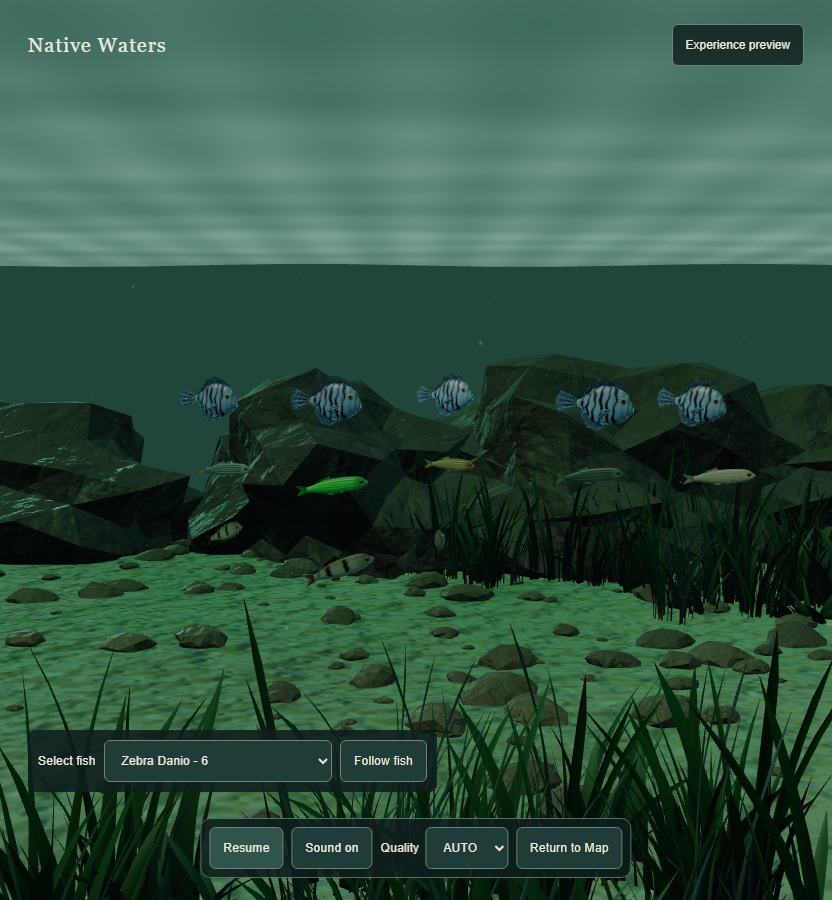
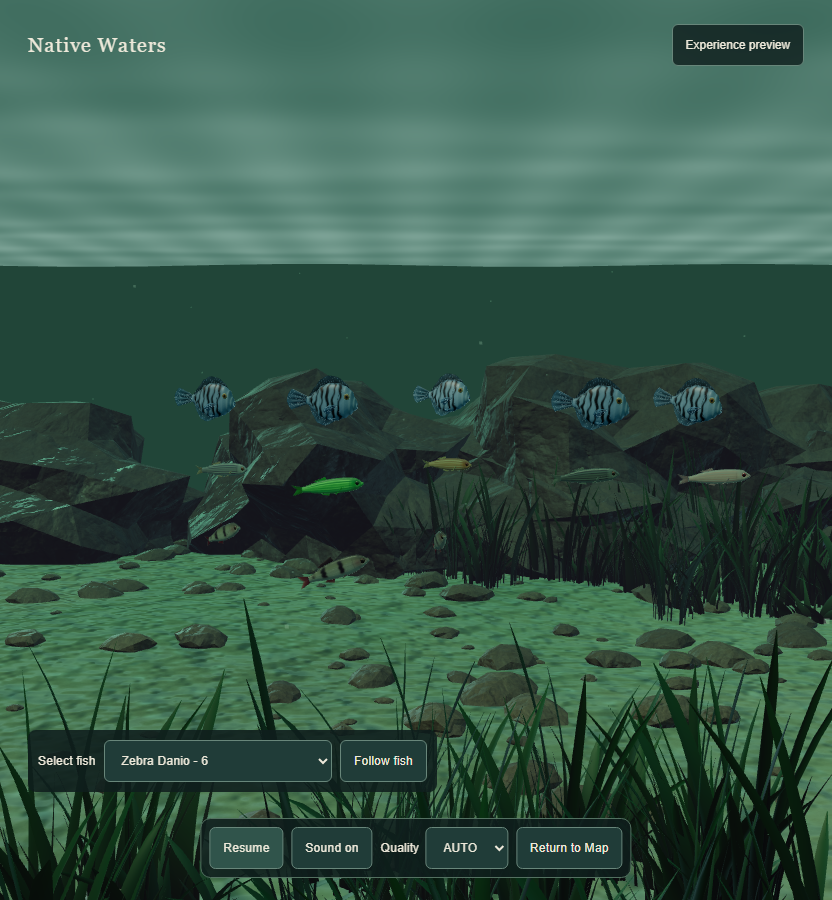
fix: converge water fog to its authored tint and gate god rays by tier

diff --git a/src/components/scene/world/PreviewWorld.tsx b/src/components/scene/world/PreviewWorld.tsx
@@ -1,4 +1,4 @@
-"use client";
+"use client";
 
 import { useEffect, useLayoutEffect, useMemo, useRef, useState } from "react";
 import { useFrame, useThree } from "@react-three/fiber";
@@ -9,8 +9,8 @@ import type { PreviewWorldProps } from "@/experience/contracts";
 import { currentAt } from "@/experience/current";
 import { advanceParticle, bedHeight, createPlacements, updateAtmosphere } from "./worldMotion";
 import { declareRockTextureColorSpaces, plantShader, rockShader, substrateShader, surfaceFragment, surfaceVertex, type RockTextures } from "./materials";
-import { applyUnderwaterFog, createWaterOptics } from "./waterOptics";
-import { createGodRayMaterial, sunScreenPosition } from "./godRays";
+import { applyUnderwaterFog, createWaterOptics, WATER_FOG_FAR, WATER_FOG_NEAR, WATER_SCATTER_CSS } from "./waterOptics";
+import { createGodRayMaterial, godRayStrength, sunScreenPosition } from "./godRays";
 import { createGravelGeometry, createPlantClumpGeometry, createRockGeometry, fillBatch, planStoneBatches } from "./worldAssets";
 
 export function PreviewWorld({ runtime, quality, visible }: PreviewWorldProps) {
@@ -38,7 +38,7 @@ export function PreviewWorld({ runtime, quality, visible }: PreviewWorldProps) {
   const surfaceUniforms = useMemo(() => ({ uTime: uniforms.time, uRichness: uniforms.richness }), [uniforms]);
   const substrate = useMemo(() => substrateShader(uniforms, water), [uniforms, water]);
   const plant = useMemo(() => plantShader(uniforms, water), [uniforms, water]);
-  const atmosphere = useMemo(() => ({ fog: new Fog("#214538", 7, 38), background: new Color("#214538"), previousFog: scene.fog, previousBackground: scene.background, active: false }), [scene]);
+  const atmosphere = useMemo(() => ({ fog: new Fog(WATER_SCATTER_CSS, WATER_FOG_NEAR, WATER_FOG_FAR), background: new Color(WATER_SCATTER_CSS), previousFog: scene.fog, previousBackground: scene.background, active: false }), [scene]);
   const env = useMemo(() => createUnderwaterEnvironment(gl), [gl]);
   const motion = useMemo(() => {
     const positions = new Float32Array(240 * 3);
@@ -99,8 +99,8 @@ export function PreviewWorld({ runtime, quality, visible }: PreviewWorldProps) {
   useEffect(() => () => plantGeometry2.dispose(), [plantGeometry2]);
 
   // Shared 1K scanned stone maps (CC0, see public/textures/world/rocks)
-  // loaded once for all seven batches. Until they arrive â€” or forever, if the
-  // request fails â€” the batches keep the procedural substrate shader as a
+  // loaded once for all seven batches. Until they arrive — or forever, if the
+  // request fails — the batches keep the procedural substrate shader as a
   // graceful fallback instead of breaking the scene.
   const [rockTextures, setRockTextures] = useState<RockTextures | null>(null);
   useEffect(() => {
@@ -193,7 +193,7 @@ export function PreviewWorld({ runtime, quality, visible }: PreviewWorldProps) {
     uniforms.richness.value = quality === "HIGH" ? 1 : .25;
     if (quality === "HIGH") {
       const sun = sunScreenPosition(camera, time, godRays.uniforms.uSunScreen.value);
-      sun.z *= underwater ? .35 : 0;
+      sun.z *= godRayStrength(quality, underwater);
     }
     currentAt(motion.center, time, uniforms.flow.value);
     if (visible && time !== motion.previousTime) {

diff --git a/src/components/scene/world/godRays.test.ts b/src/components/scene/world/godRays.test.ts
@@ -1,6 +1,6 @@
 import { describe, expect, it } from "vitest";
 import { AdditiveBlending, PerspectiveCamera, ShaderMaterial, Vector3 } from "three";
-import { createGodRayMaterial, godRayFragment, godRayVertex, sunScreenPosition, SUN_DIRECTION } from "./godRays";
+import { createGodRayMaterial, godRayFragment, godRayVertex, godRayStrength, sunScreenPosition, SUN_DIRECTION } from "./godRays";
 
 function cameraAimed(along: Vector3) {
   const camera = new PerspectiveCamera(60, 1, .1, 100);
@@ -24,6 +24,11 @@ describe("god ray shader", () => {
     expect(godRayFragment).toContain("discard");
   });
 
+  it("does not premultiply alpha, which additive blending would square", () => {
+    expect(godRayFragment).toContain("vec4(vec3(0.85, 0.95, 0.80), alpha)");
+    expect(godRayFragment).not.toContain("* alpha, alpha");
+  });
+
   it("builds an additive, depth-free material around the shared uniforms", () => {
     const uniforms = { uSunScreen: { value: new Vector3() }, uWorldTime: { value: 0 }, uRichness: { value: 1 } };
     const material = createGodRayMaterial(uniforms);
@@ -34,6 +39,15 @@ describe("god ray shader", () => {
     expect(material.transparent).toBe(true);
     expect(material.uniforms.uSunScreen).toBe(uniforms.uSunScreen);
     material.dispose();
+  });
+});
+
+describe("godRayStrength", () => {
+  it("gates shafts to the HIGH tier while underwater", () => {
+    expect(godRayStrength("HIGH", true)).toBe(0.35);
+    expect(godRayStrength("HIGH", false)).toBe(0);
+    expect(godRayStrength("LOW", true)).toBe(0);
+    expect(godRayStrength("LOW", false)).toBe(0);
   });
 });
 

diff --git a/src/components/scene/world/waterOptics.ts b/src/components/scene/world/waterOptics.ts
@@ -1,12 +1,20 @@
-import { Color, Vector3, type MeshStandardMaterial } from "three";
+import { Vector3, type MeshStandardMaterial } from "three";
 
 type Shader = Parameters<MeshStandardMaterial["onBeforeCompile"]>[0];
 
-export type WaterOptics = { scatter: { value: Color }; absorption: { value: Vector3 } };
+// Values are read-only and shared by every material in the scene.
+export type WaterOptics = { scatter: { value: Vector3 }; absorption: { value: Vector3 } };
 
 // Green, turbid river rather than ocean blue: Jerlov coastal coefficients
 // dialed down until fish stay readable at 2-4 m.
 export const WATER_SCATTER_CSS = "#214538";
+export const WATER_FOG_NEAR = 7;
+export const WATER_FOG_FAR = 38;
+
+// The fog chunk runs after <colorspace_fragment>, where gl_FragColor is already
+// output-encoded, so the uniform must carry display-space components. three
+// converts its own fogColor the same way before upload.
+const SCATTER_DISPLAY = [0x21 / 255, 0x45 / 255, 0x38 / 255] as const;
 
 // Per-metre Beer-Lambert extinction. Red is absorbed first and green
 // survives longest, which is what turns distance green instead of blue.
@@ -14,7 +22,7 @@ const ABSORPTION = [0.085, 0.03, 0.06] as const;
 
 export function createWaterOptics(): WaterOptics {
   return {
-    scatter: { value: new Color(WATER_SCATTER_CSS) },
+    scatter: { value: new Vector3(...SCATTER_DISPLAY) },
     absorption: { value: new Vector3(...ABSORPTION) },
   };
 }

diff --git a/src/components/scene/world/waterOptics.test.ts b/src/components/scene/world/waterOptics.test.ts
@@ -1,6 +1,6 @@
 import { describe, expect, it } from "vitest";
-import { Color } from "three";
-import { WATER_SCATTER_CSS, applyUnderwaterFog, createWaterOptics } from "./waterOptics";
+import { Vector3 } from "three";
+import { WATER_FOG_FAR, WATER_FOG_NEAR, WATER_SCATTER_CSS, applyUnderwaterFog, createWaterOptics } from "./waterOptics";
 
 function fogShader() {
   return {
@@ -11,11 +11,14 @@ function fogShader() {
 }
 
 describe("createWaterOptics", () => {
-  it("returns the green coastal scatter and per-channel absorption", () => {
+  it("returns the green coastal scatter in display space and per-channel absorption", () => {
     const water = createWaterOptics();
-    expect(water.scatter.value).toBeInstanceOf(Color);
-    expect(water.scatter.value.getHexString()).toBe("214538");
+    expect(water.scatter.value).toBeInstanceOf(Vector3);
+    // The fog chunk runs after <colorspace_fragment>, so the uniform must hold
+    // display-space components; three converts its own fogColor the same way.
+    expect(water.scatter.value.toArray()).toEqual([0x21 / 255, 0x45 / 255, 0x38 / 255]);
     expect(WATER_SCATTER_CSS).toBe("#214538");
+    expect([WATER_FOG_NEAR, WATER_FOG_FAR]).toEqual([7, 38]);
     expect(water.absorption.value.toArray()).toEqual([0.085, 0.03, 0.06]);
   });
 

diff --git a/src/experience/warmScene.test.ts b/src/experience/warmScene.test.ts
@@ -1,6 +1,7 @@
 import { expect, test, vi } from "vitest";
 import { AmbientLight, DirectionalLight, Fog, Group, HemisphereLight, Light, PerspectiveCamera, Scene, Texture, type WebGLRenderer } from "three";
 import { warmScene } from "./warmScene";
+import { WATER_FOG_FAR, WATER_FOG_NEAR, WATER_SCATTER_CSS } from "@/components/scene/world/waterOptics";
 
 function setup() {
   const scene = new Scene(), group = new Group(), map = new Group(), water = new Group();
@@ -48,7 +49,7 @@ test("warms actual map, above-water and underwater light/fog/environment variant
   expect(configurations).toEqual([
     { lights: ["AmbientLight", "DirectionalLight"], fog: null, fishVisible: false, environment: null, cameraY: 0, culled: true },
     { lights: ["AmbientLight", "DirectionalLight", "HemisphereLight"], fog: null, fishVisible: false, environment: null, cameraY: 1.7, culled: true },
-    { lights: ["AmbientLight", "DirectionalLight"], fog: ["214538", 7, 38], fishVisible: false,
+    { lights: ["AmbientLight", "DirectionalLight"], fog: [WATER_SCATTER_CSS.slice(1), WATER_FOG_NEAR, WATER_FOG_FAR], fishVisible: false,
       environment: "underwater", cameraY: -1.1, culled: true },
   ]);
   expect(s.scene.environment).toBe(originalEnvironment);

diff --git a/src/experience/warmScene.ts b/src/experience/warmScene.ts
@@ -1,4 +1,5 @@
 import { Fog, type Camera, type Object3D, type Scene, type WebGLRenderer } from "three";
+import { WATER_FOG_FAR, WATER_FOG_NEAR, WATER_SCATTER_CSS } from "@/components/scene/world/waterOptics";
 
 export function warmScene(gl: Pick<WebGLRenderer, "compile" | "compileAsync" | "info" | "getContext">, scene: Scene, camera: Camera, group: Object3D): Promise<void> {
   const visibility: [Object3D, boolean][] = [];
@@ -36,7 +37,7 @@ export function warmScene(gl: Pick<WebGLRenderer, "compile" | "compileAsync" | "
       visible(map, variant === "map"); visible(water, variant !== "map"); visible(world, variant !== "map");
       visible(ambient, variant !== "underwater"); visible(hemisphere, variant !== "underwater");
       visible(underwaterAmbient, variant === "underwater");
-      scene.fog = variant === "underwater" ? new Fog("#214538", 7, 38) : null;
+      scene.fog = variant === "underwater" ? new Fog(WATER_SCATTER_CSS, WATER_FOG_NEAR, WATER_FOG_FAR) : null;
       scene.environment = variant === "underwater" ? underwaterEnvironment : null;
       pending.push(typeof gl.compileAsync === "function" ? gl.compileAsync(scene, camera) : Promise.resolve(gl.compile(scene, camera)));
     }

diff --git a/src/components/scene/world/godRays.ts b/src/components/scene/world/godRays.ts
@@ -40,7 +40,7 @@ export const godRayFragment = `
     float streaks = 0.55 + 0.3 * streakA + 0.15 * streakB;
     float falloff = smoothstep(1.6, 0.05, distanceToSun);
     float alpha = clamp(streaks * falloff * 0.5 * uSunScreen.z * uRichness, 0.0, 0.6);
-    gl_FragColor = vec4(vec3(0.85, 0.95, 0.80) * alpha, alpha);
+    gl_FragColor = vec4(vec3(0.85, 0.95, 0.80), alpha);
   }
 `;
 
@@ -59,6 +59,12 @@ export function createGodRayMaterial(uniforms: GodRayUniforms) {
 const aim = new Vector3();
 const view = new Vector3();
 const cameraDirection = new Vector3();
+
+// Shafts are a HIGH-tier reward: LOW falls back to plain water so the
+// six-fish budget never pays for an additive full-screen pass.
+export function godRayStrength(quality: string, underwater: boolean): number {
+  return quality === "HIGH" && underwater ? 0.35 : 0;
+}
 
 // Projects the fixed sun into NDC. out.z carries visibility (0 = hidden,
 // 1 = drawable), so the caller can gate by tier and by being underwater.

diff --git a/src/components/scene/world/materials.test.ts b/src/components/scene/world/materials.test.ts
@@ -1,4 +1,4 @@
-import { describe, expect, it } from "vitest";
+import { describe, expect, it } from "vitest";
 import { SRGBColorSpace, Texture, Vector3 } from "three";
 import { declareRockTextureColorSpaces, plantShader, reorientRockNormal, rockShader, substrateShader, surfaceFragment, surfaceVertex, type WorldUniforms } from "./materials";
 import { createWaterOptics } from "./waterOptics";
